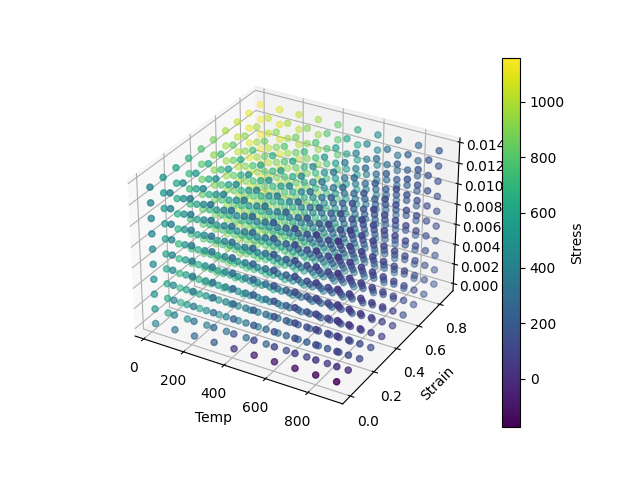
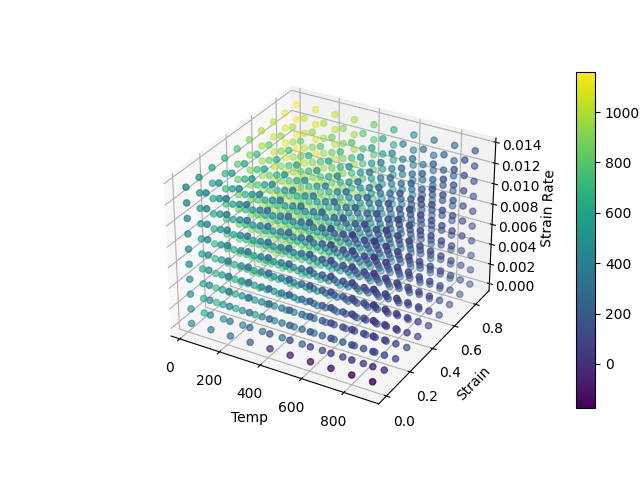
updated with new data

Changed region(s): [[0.1875, 0.0938, 1.0, 0.9062], [0.625, 0.875, 0.6562, 0.9062], [0.1875, 0.75, 0.2188, 0.7812]]

diff --git a/generate_heatmap.py b/generate_heatmap.py
@@ -3,14 +3,14 @@ import matplotlib.pyplot as plt
 from mpl_toolkits.mplot3d import Axes3D
 
 # Load the data from the Excel file
-file_path = "data/leitner_model_16_hidden_layers_kfold_loss_0_0008_stainless_steel_304_exhaustive_predictions_10.xlsx"
+file_path = "data/leitner_model_16_hidden_layers_kfold_loss_0_0008_stainless_steel_304.xlsx"
 df = pd.read_excel(file_path)
 
 # Extract the columns
 temp = df["Temp"]
-strain = df["Strain"]
+strain = df["Plastic Strain"]
 strain_rate = df["Strain Rate"]
-stress = df["Predictions"]
+stress = df["Unstandardized Prediction"]
 
 # Create the 3D plot
 fig = plt.figure()
@@ -24,9 +24,13 @@ ax.set_xlabel('Temp')
 ax.set_ylabel('Strain')
 ax.set_zlabel('Strain Rate')
 
-# Add color bar legend
-cbar = plt.colorbar(sc, orientation="vertical")
+# Create a new axes for the color bar
+cbar_ax = fig.add_axes([0.9, 0.15, 0.03, 0.7]) # You can adjust the values to position the color bar
+
+# Add color bar legend using the custom axes
+cbar = plt.colorbar(sc, cax=cbar_ax, orientation="vertical")
 cbar.set_label('Stress')
 
 # Show the plot
+# plt.show()
 plt.savefig(file_path.replace('.xlsx', '.png'))

diff --git a/generate_error_heatmap.py b/generate_error_heatmap.py
@@ -1,0 +1,36 @@
+import pandas as pd
+import matplotlib.pyplot as plt
+from mpl_toolkits.mplot3d import Axes3D
+
+# Load the data from the Excel file
+file_path = "data/leitner_model_16_hidden_layers_kfold_loss_0_0008_stainless_steel_304.xlsx"
+df = pd.read_excel(file_path)
+
+# Extract the columns
+temp = df["Temp"]
+strain = df["Plastic Strain"]
+strain_rate = df["Strain Rate"]
+error = df["Absolute Error per Row"]
+
+# Create the 3D plot
+fig = plt.figure()
+ax = fig.add_subplot(111, projection='3d')
+
+# Plot the 3D scatter plot with a specific color range
+sc = ax.scatter(temp, strain, strain_rate, c=error, cmap="cool", vmin=min(error), vmax=max(error))
+
+# Set labels for each axis
+ax.set_xlabel('Temp')
+ax.set_ylabel('Strain')
+ax.set_zlabel('Strain Rate')
+
+# Create a new axes for the color bar
+cbar_ax = fig.add_axes([0.9, 0.15, 0.03, 0.7]) # You can adjust the values to position the color bar
+
+# Add color bar legend
+cbar = plt.colorbar(sc, cax=cbar_ax, orientation="vertical")
+cbar.set_label('Error')
+
+# Show the plot
+# plt.show()
+plt.savefig(file_path.replace('.xlsx', '_error.png'))
